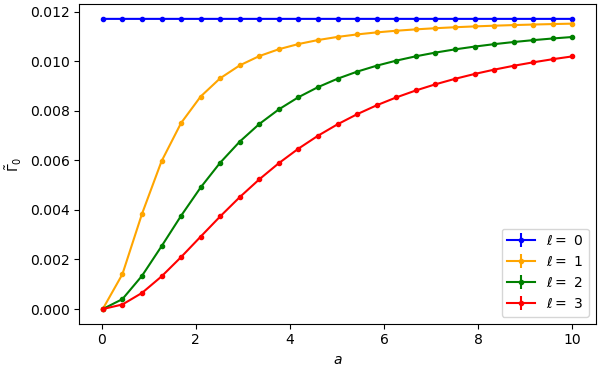
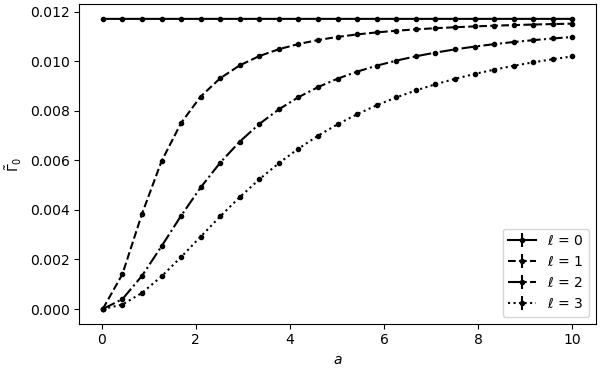
remove colors from all plots

diff --git a/plot_finite_temp_vertex_correction.py b/plot_finite_temp_vertex_correction.py
@@ -18,10 +18,10 @@ correction_val_arr = finite_temp_val_arr - zero_temp_val_arr
 correction_err_arr = finite_temp_err_arr + zero_temp_err_arr
 
 params = {
-    0: [-1, 'blue', 'upper right', None, r'$\tilde{\Gamma}_T - \tilde{\Gamma}_0$'],
-    1: [-1, 'orange', 'upper right', None, None],
-    2: [-1, 'green', 'lower right', r'$a$', r'$\tilde{\Gamma}_T - \tilde{\Gamma}_0$'],
-    3: [-1, 'red', 'lower right', r'$a$', None],
+    0: [-1, '.-k', 'upper right', None, r'$\tilde{\Gamma}_T - \tilde{\Gamma}_0$'],
+    1: [-1, '.--k', 'upper right', None, None],
+    2: [-1, '.-.k', 'lower right', r'$a$', r'$\tilde{\Gamma}_T - \tilde{\Gamma}_0$'],
+    3: [-1, '.:k', 'lower right', r'$a$', None],
 }
 
 fig, ax = plt.subplots(nrows=2, ncols=2, sharex=True, sharey=False,
@@ -32,12 +32,15 @@ def add_plot(row, col, el_index):
     ax[row, col].errorbar(x=a_arr[:params[el_index][0]],
                           y=correction_val_arr[el_index, :params[el_index][0]],
                           yerr=correction_err_arr[el_index, :params[el_index][0]],
-                          color=params[el_index][1],
-                          fmt='.-', label=r'$\ell =$ {}'.format(el_index))
-    ax[row, col].legend(loc=params[el_index][2])
+                          fmt=params[el_index][1],
+                          label=r'$\ell =$ {}'.format(el_index))
+    ax[row, col].set_title(r'$\ell =$ {}'.format(el_index))
+    # ax[row, col].legend(loc=params[el_index][2])
     ax[row, col].set_xlabel(params[el_index][3])
+    ax[row, col].set_xticks(np.arange(0, 12.5, 2.5))
     ax[row, col].set_ylabel(params[el_index][4])
-
+    if row == 0 and col == 0:
+        ax[row, col].set_yscale('log')
 
 add_plot(0, 0, 0)
 add_plot(0, 1, 1)

diff --git a/plot_finite_temp_vertex_correction_momentum.py b/plot_finite_temp_vertex_correction_momentum.py
@@ -18,16 +18,16 @@ correction_val_arr = finite_temp_val_arr - zero_temp_val_arr
 correction_err_arr = finite_temp_err_arr + zero_temp_err_arr
 
 plot_options = [
-    {'color': 'blue', 'x_label': None,
+    {'format': '.-k', 'x_label': None,
      'y_label': r'$\tilde{\Gamma}_T - \tilde{\Gamma}_0$',
      'legend_loc': 'upper right'},
-    {'color': 'orange', 'x_label': None,
+    {'format': '.--k', 'x_label': None,
      'y_label': None,
      'legend_loc': 'upper right'},
-    {'color': 'green', 'x_label': r'$q^x$',
+    {'format': '.-.k', 'x_label': r'$q^1$',
      'y_label': r'$\tilde{\Gamma}_T - \tilde{\Gamma}_0$',
      'legend_loc': 'upper right'},
-    {'color': 'red', 'x_label': r'$q^x$',
+    {'format': '.:k', 'x_label': r'$q^1$',
      'y_label': None,
      'legend_loc': 'upper right'}
 ]
@@ -40,11 +40,12 @@ fig, ax =\
 def add_plot(row, col, index):
     ax[row, col].errorbar(x=qx_arr, y=correction_val_arr[index],
                           yerr=correction_err_arr[index],
-                          fmt='.-', color=plot_options[index]['color'],
+                          fmt=plot_options[index]['format'],
                           label=r'$a=$' + '{:4.2f}'.format(a_arr[index]))
+    ax[row, col].set_title(r'$a$ = {:4.1f}'.format(a_arr[index]))
     ax[row, col].set_xlabel(plot_options[index]['x_label'])
     ax[row, col].set_ylabel(plot_options[index]['y_label'])
-    ax[row, col].legend(loc=plot_options[index]['legend_loc'])
+    # ax[row, col].legend(loc=plot_options[index]['legend_loc'])
 
 add_plot(0, 0, 0)
 add_plot(0, 1, 1)

diff --git a/plot_zero_temp_vertex_momentum_data.py b/plot_zero_temp_vertex_momentum_data.py
@@ -12,13 +12,13 @@ qx_arr = np.array(data['qx_list'])
 vertex_val_arr = np.array(data['vertex_val_data'])
 vertex_err_arr = np.array(data['vertex_err_data'])
 
-colors = ['blue', 'orange', 'green', 'red']
+formats = ['.-k', '.--k', '.-.k', '.:k']
 fig, ax = plt.subplots(layout='constrained', figsize=(6, 3.71))
 for index in range(len(a_arr)):
     ax.errorbar(x=qx_arr, y=vertex_val_arr[index], yerr=vertex_err_arr[index],
-                fmt='.-', color=colors[index],
-                label=r'$a=$' + '{0:5.2f}'.format(a_arr[index]))
+                fmt=formats[index],
+                label=r'$a=$' + '{0:4.1f}'.format(a_arr[index]))
     ax.legend(loc='upper right')
-    ax.set_xlabel(r'$q^x$')
+    ax.set_xlabel(r'$q^1$')
     ax.set_ylabel(r'$\tilde{\Gamma}_0$')
 plt.show()

diff --git a/plot_zero_temp_vertex_data.py b/plot_zero_temp_vertex_data.py
@@ -13,14 +13,13 @@ a_arr = np.array(data['a_list'])
 vertex_val_arr = np.array(data['vertex_val_data'])
 vertex_err_arr = np.array(data['vertex_err_data'])
 
-colors = ['blue', 'orange', 'green', 'red']
+formats = ['.-k', '.--k', '.-.k', '.:k']
 
 fig, ax = plt.subplots(layout='constrained', figsize=(6, 3.71))
 for p in range(len(el_arr)):
     ax.errorbar(x=a_arr, y=vertex_val_arr[p],
                 yerr=vertex_err_arr[p],
-                fmt='.-', color=colors[p],
-                label=r'$\ell=$ {}'.format(el_arr[p]))
+                fmt=formats[p], label=r'$\ell$ = {:}'.format(el_arr[p]))
     ax.set_xlabel(r'$a$')
     ax.set_ylabel(r'$\tilde{\Gamma}_{0}$')
     ax.legend(loc='lower right')
